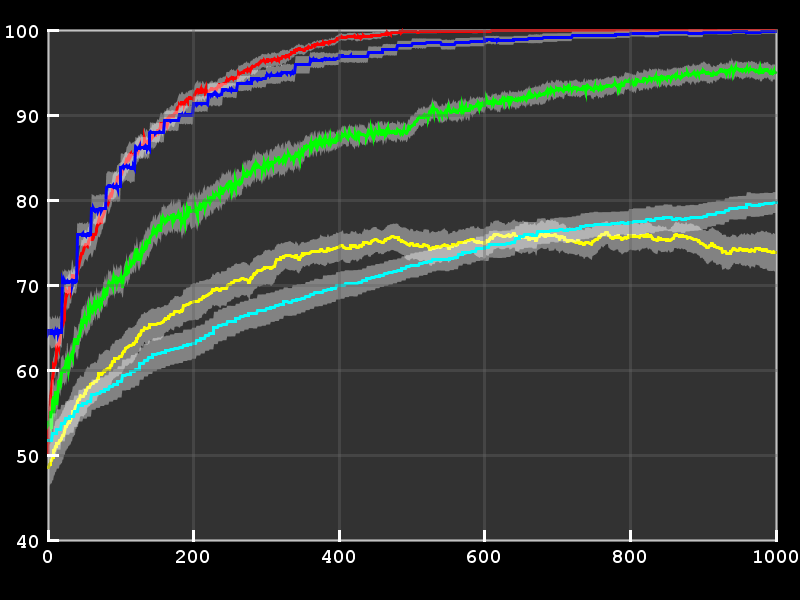
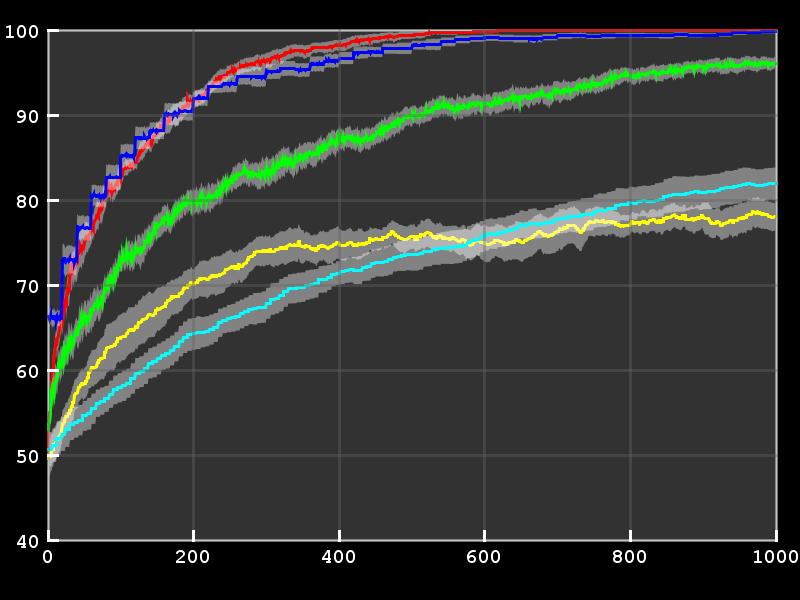
Added results for NoisyPMax

Changed region(s): [[0.0625, 0.03, 0.9688, 0.81]]

diff --git a/src/evodef/TestEAGraphRunTrials.java b/src/evodef/TestEAGraphRunTrials.java
@@ -24,13 +24,13 @@ public class TestEAGraphRunTrials {
         // create and run a test
         // showing flexibility to create multiple graphs
 
-        int nDims=100, mValues = 2;
+        int nDims=20, mValues = 2;
         double noise = 1.0;
         int nEvals = 1000;
         int nTrials = 20;
 
         NoisySolutionEvaluator solutionEvaluator = new EvalNoisyWinRate(nDims, mValues, noise);
-        solutionEvaluator = new EvalMaxM(nDims, mValues, noise);
+        // solutionEvaluator = new EvalMaxM(nDims, mValues, noise);
         // solutionEvaluator = new Eval2DNonLinear(8, noise);
 
         TestEAGraph tester = new TestEAGraph(solutionEvaluator, nEvals).setColor(Color.red);
@@ -62,7 +62,6 @@ public class TestEAGraphRunTrials {
 
         evos.add(cga2);
 
-
         evos.add(rmhc1);
         evos.add(rmhc5);
 
@@ -71,7 +70,8 @@ public class TestEAGraphRunTrials {
         LineChart lineChart = new LineChart();
 
         lineChart.xAxis = new LineChartAxis(new double[]{0, 200, 400, 600, 800, 1000});
-        lineChart.yAxis = new LineChartAxis(new double[]{40, 50, 60, 70, 80, 90, 100});
+        // lineChart.yAxis = new LineChartAxis(new double[]{40, 50, 60, 70, 80, 90, 100});
+        lineChart.yAxis = new LineChartAxis(new double[]{0.0, 0.2, 0.4, 0.6, 0.8, 1.0});
 
 
         for (int i=0; i<evos.size(); i++) {
@@ -91,10 +91,10 @@ public class TestEAGraphRunTrials {
             // lineChart.addLine(new LinePlot().setColor(Color.white).setData(extra));
         }
 
-        // new JEasyFrame(lineChart, "Fitness Evolution");
+        new JEasyFrame(lineChart, "Fitness Evolution");
 
         String dir = "results/javares/sweda/";
-        String filename = "results.png";
+        String filename = "resultsPMax.png";
         lineChart.saveImage(dir, filename);
     }
 }

diff --git a/src/plot/LineChart.java b/src/plot/LineChart.java
@@ -327,7 +327,10 @@ public class LineChart extends JComponent {
 
                 // label it
 
-                String yLabel = String.format("%.0f", y);
+                // need a better way to handle the ticks:
+                // may be better to specify as a string ...
+                // String yLabel = String.format("%.0f", y);
+                String yLabel = String.format("%.1f", y);
                 g.setFont(new Font("Monospaced", Font.BOLD, fontSize));
                 Rectangle2D rect = g.getFontMetrics().getStringBounds(yLabel, g);
                 // use a drawString method for now
